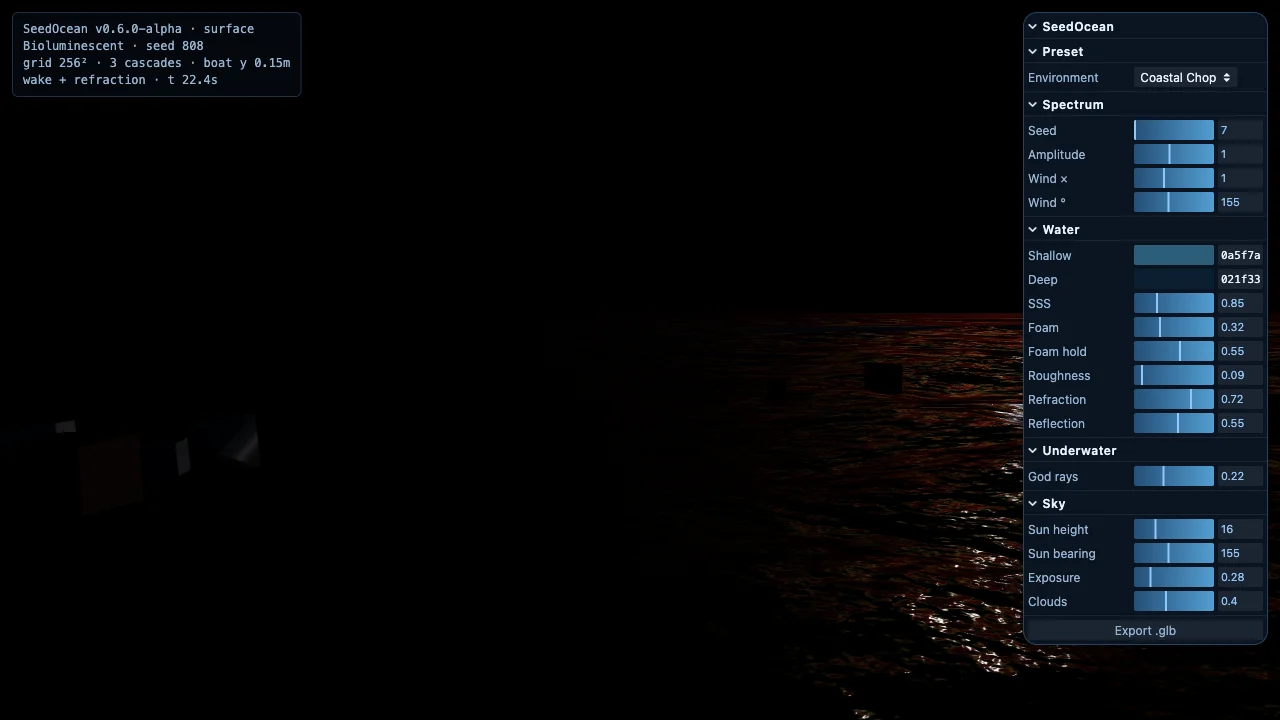
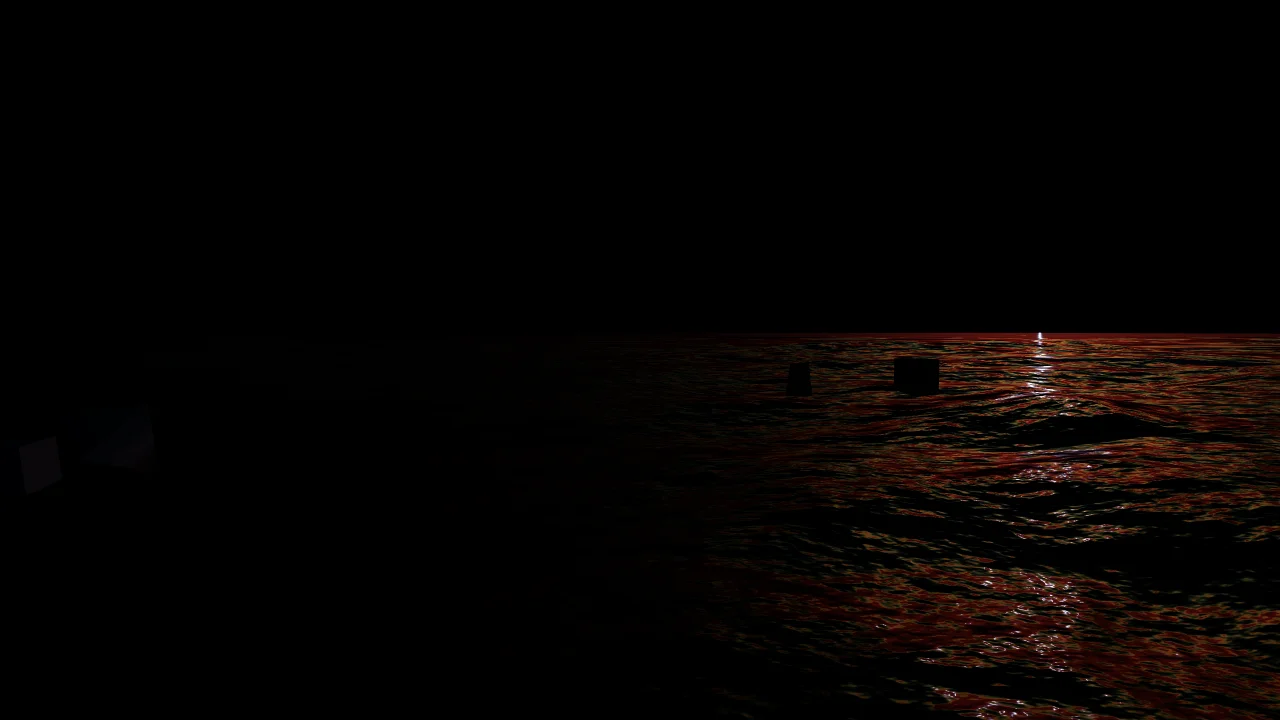
feat(sky): procedural star field + moonlight — real night skies for v0.7
The moonlit/bioluminescent presets faked night with elevation 0.5° + crushed
exposure; SkyMesh goes near-black at low sun with no stars or moon.

environment.js now builds a 1800-star Points shell (radius 9000, inside the
sky dome) with per-star size/color variation. updateSun derives a nightFactor
from sun elevation (<6° → 1) that:
  - fades star opacity in (× starsDensity)
  - hides the solar disc via SkyMesh.showSunDisc
  - dims + cools sunLight to a bluish moonlight (0x9db4ff)
  - dims hemisphere light

Star shell follows the camera each frame so it reads as infinitely far.
Presets moonlit/bioluminescent gain starsDensity + relaxed exposure (stars
carry the night read, no longer relying on crushed exposure). GUI adds a
"Stars" slider. Both night thumbnails re-captured with visible star fields.

diff --git a/src/core/environment.js b/src/core/environment.js
@@ -1,7 +1,54 @@
 // Sky + sun rig — mirrors the three.js webgpu_ocean example, packaged for reuse.
+// Night support: a procedural star Points layer + sunLight repurposed as moonlight.
 
 import * as THREE from 'three/webgpu';
 import { SkyMesh } from 'three/addons/objects/SkyMesh.js';
+
+/** Build a star field as Points distributed on a sphere shell. */
+function buildStars(count, radius) {
+  const positions = new Float32Array(count * 3);
+  const sizes = new Float32Array(count);
+  const colors = new Float32Array(count * 3);
+  const cool = new THREE.Color(0xcdd9ff);
+  const warm = new THREE.Color(0xffe9c4);
+  const tmp = new THREE.Color();
+  for (let i = 0; i < count; i++) {
+    // Uniform distribution on a sphere (avoid pole clumping).
+    const u = Math.random();
+    const v = Math.random();
+    const theta = 2 * Math.PI * u;
+    const phi = Math.acos(2 * v - 1);
+    const r = radius * (0.92 + Math.random() * 0.08);
+    positions[i * 3] = r * Math.sin(phi) * Math.cos(theta);
+    positions[i * 3 + 1] = Math.abs(r * Math.cos(phi)) * 0.85 + r * 0.05; // bias above horizon
+    positions[i * 3 + 2] = r * Math.sin(phi) * Math.sin(theta);
+    sizes[i] = 0.6 + Math.random() * 1.8;
+    tmp.copy(warm).lerp(cool, Math.random()).multiplyScalar(0.6 + Math.random() * 0.4);
+    colors[i * 3] = tmp.r;
+    colors[i * 3 + 1] = tmp.g;
+    colors[i * 3 + 2] = tmp.b;
+  }
+  const geo = new THREE.BufferGeometry();
+  geo.setAttribute('position', new THREE.BufferAttribute(positions, 3));
+  geo.setAttribute('size', new THREE.BufferAttribute(sizes, 1));
+  geo.setAttribute('color', new THREE.BufferAttribute(colors, 3));
+
+  // Circular star sprite via PointsMaterial (size attenuation, round by default
+  // with a small alpha-falloff texture — fall back to default square if no tex).
+  const mat = new THREE.PointsMaterial({
+    size: 28,
+    sizeAttenuation: true,
+    transparent: true,
+    opacity: 0,
+    depthWrite: false,
+    vertexColors: true,
+    fog: false,
+  });
+  const points = new THREE.Points(geo, mat);
+  points.frustumCulled = false;
+  points.renderOrder = -1;
+  return points;
+}
 
 /**
  * @param {THREE.WebGPURenderer} renderer
@@ -24,6 +71,9 @@ export function buildEnvironment(renderer) {
 
   const hemi = new THREE.HemisphereLight(0x7ec8ff, 0x0a1a2e, 0.6);
 
+  // Star field — inside the sky shell, only visible at night.
+  const stars = buildStars(1800, 9000);
+
   const pmrem = new THREE.PMREMGenerator(renderer);
   const envScene = new THREE.Scene();
   let envTarget;
@@ -34,7 +84,13 @@ export function buildEnvironment(renderer) {
     exposure: 0.28,
     turbidity: 8,
     cloudCoverage: 0.35,
+    starsDensity: 1, // 0 = no stars, 1 = full density
   };
+
+  // nightFactor: 0 in daytime, ramps to 1 as the sun drops below ~6°.
+  let nightFactor = 0;
+  const _moonColor = new THREE.Color(0x9db4ff);
+  const _dayColor = new THREE.Color(0xffffff);
 
   function updateSun(scene) {
     const phi = THREE.MathUtils.degToRad(90 - skyState.elevation);
@@ -43,7 +99,20 @@ export function buildEnvironment(renderer) {
 
     sky.sunPosition.value.copy(sun);
     sunLight.position.copy(sun).multiplyScalar(400);
-    sunLight.intensity = 1.5 + skyState.elevation / 45;
+
+    // Derive night factor: full day above 6°, full night below 0°, blended between.
+    const e = skyState.elevation;
+    nightFactor = THREE.MathUtils.clamp((6 - e) / 6, 0, 1);
+
+    // Dim + cool the light at night (the "moon" sits where the sun direction points).
+    sunLight.intensity = THREE.MathUtils.lerp(1.5 + e / 45, 0.25, nightFactor);
+    sunLight.color.lerpColors(_dayColor, _moonColor, nightFactor);
+    hemi.intensity = THREE.MathUtils.lerp(0.6, 0.18, nightFactor);
+
+    // Hide the solar disc at night; show stars.
+    sky.showSunDisc.value = 1 - nightFactor;
+    stars.material.opacity = nightFactor * skyState.starsDensity;
+    stars.visible = stars.material.opacity > 0.01;
 
     if (envTarget) envTarget.dispose();
     envScene.add(sky);
@@ -57,13 +126,16 @@ export function buildEnvironment(renderer) {
     Object.assign(skyState, preset.sky ?? {});
     if (preset.sky?.turbidity != null) sky.turbidity.value = preset.sky.turbidity;
     if (preset.sky?.cloudCoverage != null) sky.cloudCoverage.value = preset.sky.cloudCoverage;
+    if (preset.sky?.starsDensity != null) skyState.starsDensity = preset.sky.starsDensity;
     return updateSun(scene);
   }
 
   function dispose() {
     if (envTarget) envTarget.dispose();
     pmrem.dispose();
+    stars.geometry.dispose();
+    stars.material.dispose();
   }
 
-  return { sky, sunLight, hemi, sun, skyState, updateSun, applyPreset, dispose };
+  return { sky, sunLight, hemi, sun, stars, skyState, updateSun, applyPreset, dispose };
 }

diff --git a/src/presets/bioluminescent.js b/src/presets/bioluminescent.js
@@ -27,8 +27,8 @@ export const bioluminescent = {
   causticStrength: 0.6,
   seafloorDepth: -24,
   // Near-dark sky so the crest glow dominates the read. High SSS + bright
-  // scatterColor makes every crest edge emit electric blue-green.
-  sky: { elevation: 0.6, azimuth: 150, exposure: 0.045, turbidity: 2, cloudCoverage: 0.4 },
+  // scatterColor makes every crest edge emit electric blue-green. Stars on.
+  sky: { elevation: 0.6, azimuth: 150, exposure: 0.08, turbidity: 2, cloudCoverage: 0.35, starsDensity: 0.9 },
   spectrum: {
     lambda: 0.95,
     local: { windSpeed: 4, scale: 0.52, swell: 0.16 },

diff --git a/src/presets/moonlit.js b/src/presets/moonlit.js
@@ -27,8 +27,8 @@ export const moonlit = {
   causticStrength: 0.18,
   seafloorDepth: -26,
   // SkyMesh goes black at elevation <= 0; 0.5° keeps a faint horizon glow.
-  // Exposure is pushed very low to read as night; azimuth places the "moon".
-  sky: { elevation: 0.5, azimuth: 200, exposure: 0.08, turbidity: 2, cloudCoverage: 0.22 },
+  // Exposure relaxed — the star field + cool moonlight carry the night read.
+  sky: { elevation: 0.5, azimuth: 200, exposure: 0.14, turbidity: 2, cloudCoverage: 0.18, starsDensity: 1 },
   spectrum: {
     lambda: 0.85,
     local: { windSpeed: 3.5, scale: 0.45, swell: 0.12 },

diff --git a/src/seedocean.js b/src/seedocean.js
@@ -114,6 +114,7 @@ export class SeedOcean {
       this.scene.add(this.env.sky);
       this.scene.add(this.env.sunLight);
       this.scene.add(this.env.hemi);
+      if (this.env.stars) this.scene.add(this.env.stars);
     }
 
     if (this.isWebGPU) {
@@ -263,6 +264,7 @@ export class SeedOcean {
       azimuth: this.state.azimuth,
       exposure: this.state.exposure,
       cloudCoverage: this.state.cloudCoverage,
+      starsDensity: this.state.starsDensity ?? 1,
     });
     this.env.sky.cloudCoverage.value = this.state.cloudCoverage;
     this.sunDir = this.env.updateSun(this.scene);
@@ -296,6 +298,8 @@ export class SeedOcean {
     const t = this.clock.getElapsedTime();
 
     this.ocean.updateClipmap(this.camera);
+    // Star shell follows the camera so it always reads as infinitely far.
+    if (this.env?.stars) this.env.stars.position.copy(this.camera.position);
     if (this.seafloor) {
       this.seafloor.mesh.position.x = this.ocean.root.position.x;
       this.seafloor.mesh.position.z = this.ocean.root.position.z;

diff --git a/src/ui/controls.js b/src/ui/controls.js
@@ -38,6 +38,7 @@ export function buildGUI(ctx) {
   sky.add(state, 'azimuth', 0, 360, 1).name('Sun bearing').onChange(() => ctx.onSky());
   sky.add(state, 'exposure', 0.05, 1.2, 0.01).name('Exposure').onChange(() => ctx.onSky());
   sky.add(state, 'cloudCoverage', 0, 1, 0.01).name('Clouds').onChange(() => ctx.onSky());
+  sky.add(state, 'starsDensity', 0, 1, 0.01).name('Stars').onChange(() => ctx.onSky());
 
   gui.add({ export: ctx.onExport }, 'export').name('Export .glb');
 
@@ -63,6 +64,7 @@ export function stateFromPreset(preset) {
     elevation: preset.sky.elevation,
     azimuth: preset.sky.azimuth,
     exposure: preset.sky.exposure,
+    starsDensity: preset.sky.starsDensity ?? 1,
     cloudCoverage: preset.sky.cloudCoverage,
   };
 }